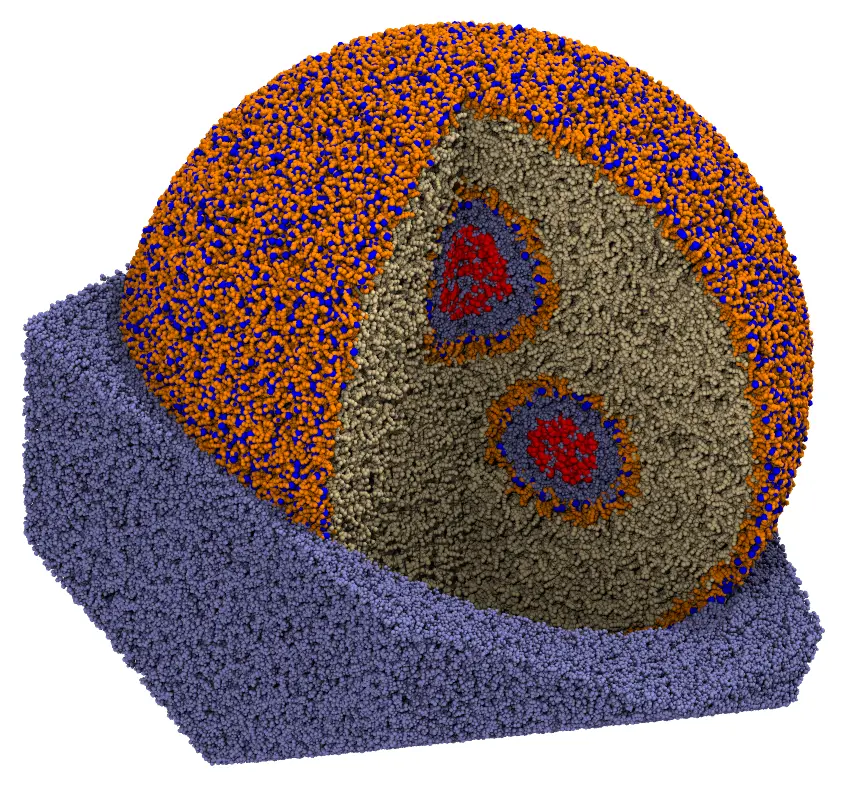
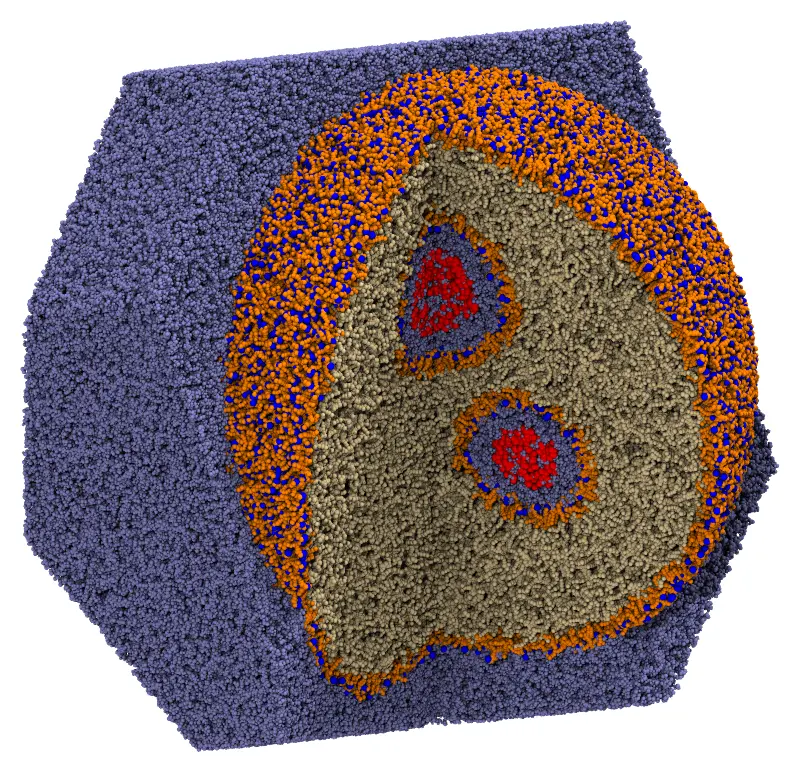
LNP tutorial image: the water outside behind the particle
Claude-Session: https://claude.ai/code/session_01CXddAw4T6Ean6ekQ8DQaFR

diff --git a/docs/src/tutorials/lnp.md b/docs/src/tutorials/lnp.md
@@ -16,8 +16,8 @@ a real LNP.
 
 *The nanoparticle with a quarter cut out: the heads (blue) and the chains (orange) of the
 lipids of the monolayers, the lipid phase (tan), and, in the compartments, water (light
-blue) and RNA (red). The water outside is shown below a diagonal plane, with the particle
-partially immersed in it, up to the faces of the periodic cell.*
+blue) and RNA (red). The water outside is shown behind the particle, up to the faces of
+the periodic cell.*
 
 The files are the `packmol_lnp` set of
 [MolSimTestFiles](https://github.com/m3g/MolSimTestFiles): download and extract
